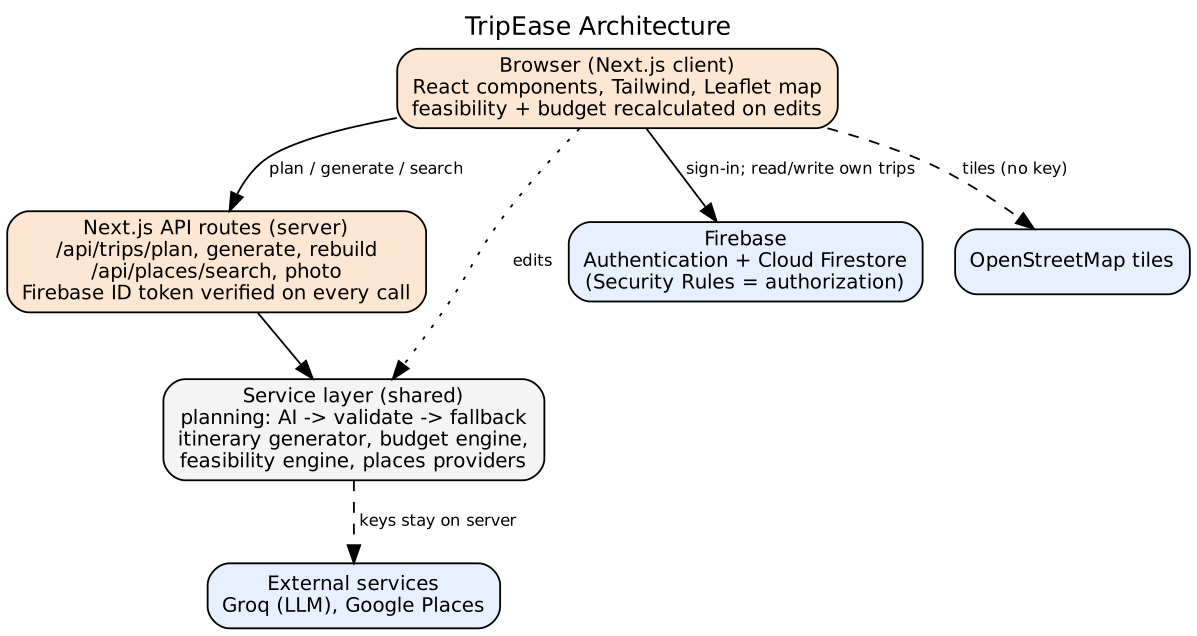
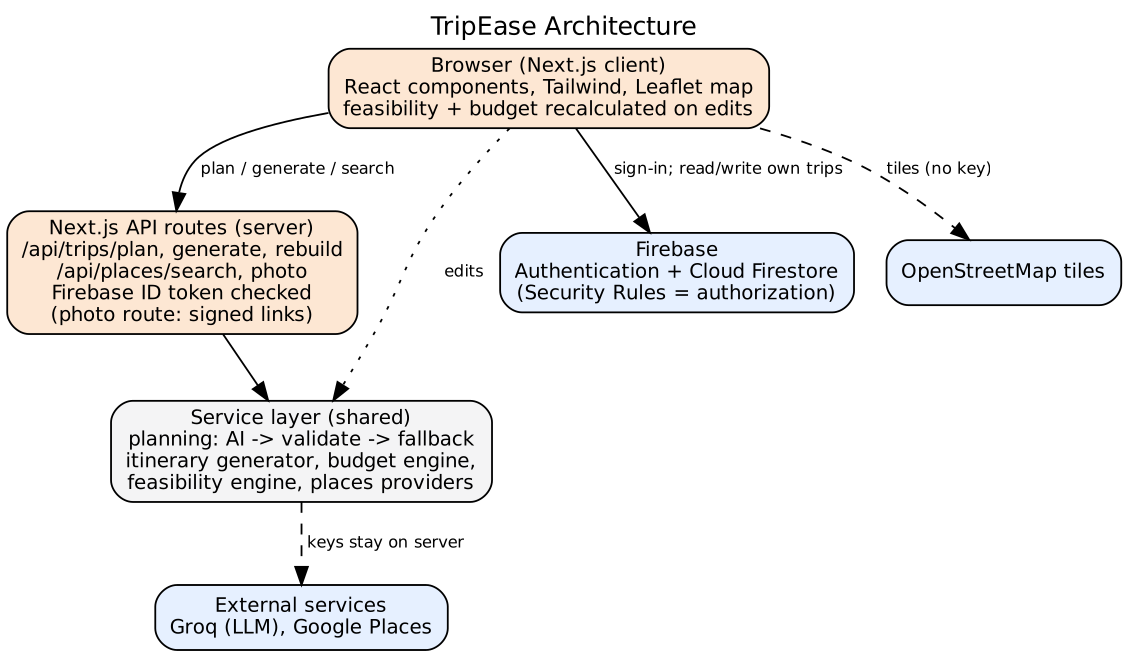
docs: clarify how the photo route is protected in the diagrams

Changed region(s): [[0.0, 0.0, 1.0, 0.7767], [0.1241, 0.8066, 0.4344, 1.0]]

diff --git a/docs/diagrams.md b/docs/diagrams.md
@@ -12,7 +12,7 @@ TripEase is shown as a single process with its external entities: the traveller,
 
 Notation: a circle is a process, a rounded rectangle is an external entity, and a name between two parallel lines is a data store.
 
-- **1.0 Authenticate User:** the traveller signs in through Firebase Authentication, which returns an ID token. API routes verify this token on every request.
+- **1.0 Authenticate User:** the traveller signs in through Firebase Authentication, which returns an ID token. The API routes for planning, generation, rebuilding and place search verify this token on every request. The photo route uses signed links instead, because an image request cannot carry the token.
 - **2.0 Plan Cities:** Groq AI suggests how many days to spend in each city. The suggestion is validated, and a deterministic fallback planner is used if it is missing or invalid.
 - **3.0 Generate Itinerary:** places are fetched from Google Places and arranged into days. Feasibility checks decide whether an activity fits in a day, and the budget is calculated. It also rebuilds the itinerary when the city list is edited.
 - **4.0 Manage Trip:** saves the trip record to D1 and handles edits, renaming, deletion and replacing a place (which searches Google Places). The budget is recalculated after every edit.
